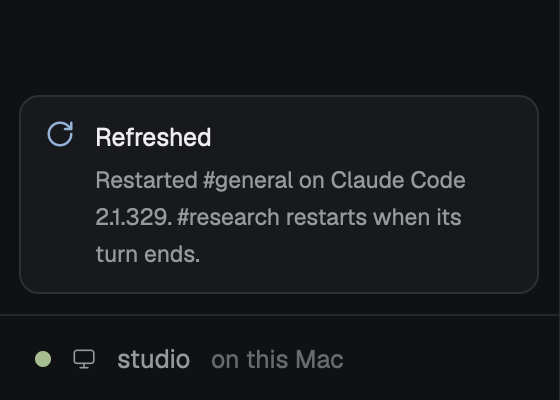
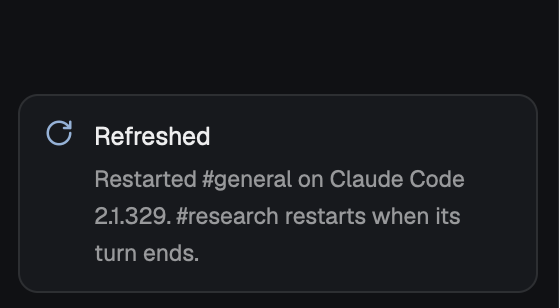
README: the Refresh row sits under the channels now; crop its shots to the row
Claude-Session: https://claude.ai/code/session_01Nb4n9WKvee5dZ7z9oTqb9K

diff --git a/README.md b/README.md
@@ -14,7 +14,7 @@ Everything is local: the channel store is a folder on disk, tasks run under your
 the herdr mod runs every command on the same machine. No server is involved, unless you turn on
 [cloud tasks](#cloud-tasks) (off by default), which run tasks at claude.ai/code.
 
-![The channels layout in Herdr: the channel list on the left with Herdr's spaces list below it (channels, acme-website); the #website channel's Claude Code chat in the middle, where a one-line notice says the Add a page title task finished and the chat answers it in a few lines, above a task card asking for an answer; and the tasks panel on the right with one task that needs input, one working and two ready for review](preview.png)
+![The channels layout in Herdr: the channel list on the left with Herdr's spaces list below it (channels, acme-website); the #website channel's Claude Code chat in the middle, where a one-line notice from the Add a page title task is followed by the chat saying in a few lines that it finished, above a task card saying Pick a homepage headline waits on a permission prompt; and the tasks panel on the right with one task that needs input, one working and two ready for review](preview.png)
 
 ## Contents
 
@@ -193,11 +193,11 @@ once, and a chat in the middle of a turn by itself within seconds of that turn e
 installer's summary says which chats restarted and which wait. Nothing needs `/exit` by hand.
 
 Claude Code updates itself. A chat keeps running the version it started with, so when a newer one is
-installed, a **Refresh** row appears at the bottom of the sidebar, saying which version is new and
+installed, a **Refresh** row appears under the channels in the sidebar, saying which version is new and
 how many chats run an older one. Clicking Refresh restarts the idle chats on it now and the rest as
 their turns end, and the row then says what it did. The row shows only while a chat is behind.
 
-<img src="docs/refresh-row.png" width="280" alt="The bottom of the channels sidebar: a row with a circular arrow, Claude Code 2.1.329, 2 chats run 2.1.328, and a Refresh button, above the studio, on this Mac footer">
+<img src="docs/refresh-row.png" width="280" alt="The Refresh row in the channels sidebar: a circular arrow, Claude Code 2.1.329, 2 chats run 2.1.328, and a Refresh button">
 <img src="docs/refresh-done.png" width="280" alt="The same row after a click: Refreshed. Restarted #general on Claude Code 2.1.329. #research restarts when its turn ends.">
 
 A restart never interrupts a turn or loses a draft. A chat is restarted only while Claude Code
